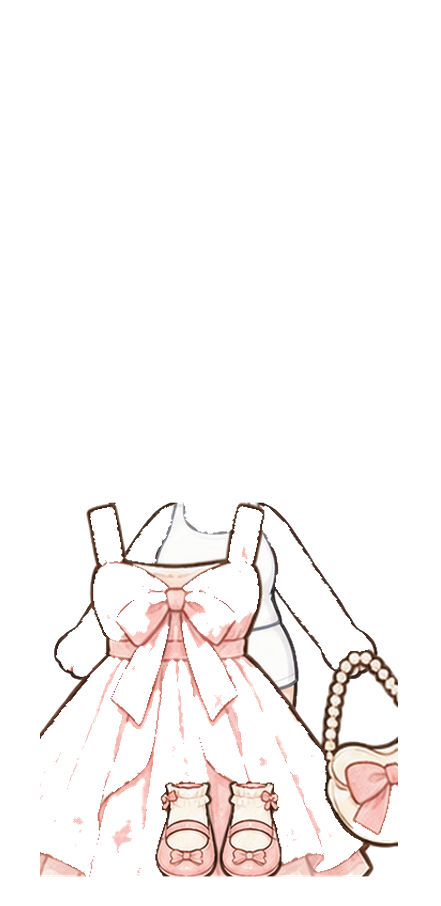
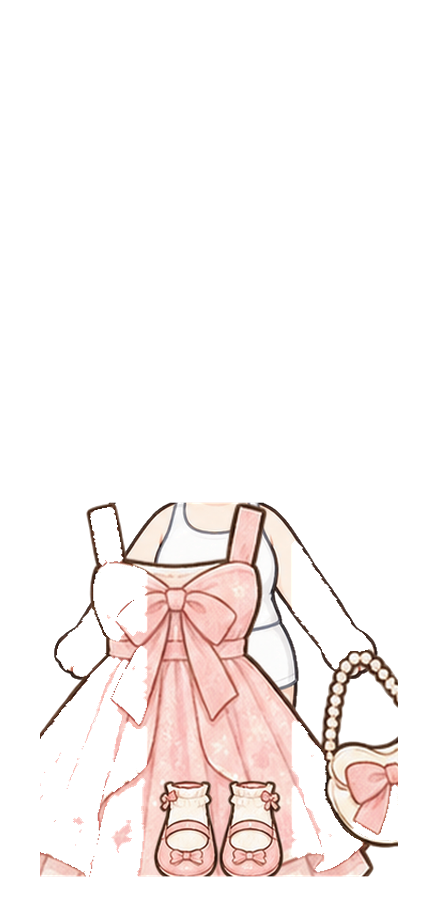
fix: 잠옷(09)·분홍 원피스(dress_05) 시스루 얼룩 제대로 고치고 잠옷 SKU 오배정 수정
두 원화(롱팬츠 잠옷·롱스커트 원피스) 모두 원래 중앙 열에 노출된 맨다리가 없다는
점을 이용해, remove_skin의 스킨 후보 검색에서 가운데 열을 통째로 제외하는 방식
(exclude_center)으로 옷감-피부 색 충돌 없이 정상 렌더링되게 고쳤다 — 이전에는
결함 목록(INVALID_KEYS)에 넣어 "의상 없음"으로만 되돌렸었는데, 이제 진짜 그림이
나온다.

겸사겸사 발견한 버그도 수정: 기본 지급 스타터 상품인 haenyeo_outfit_pajama SKU가
잠옷이 아니라 haenyeo_outfit_19(체크 치마+가방) 그림을 보여주고 있었다 — 실제
잠옷 그림(09번, 별무늬+토끼 슬리퍼)은 seed.sql에 없어 판매된 적 없는
haenyeo_outfit_pink_bear 키에만 연결돼 아무도 볼 수 없었다. 09번으로 바로잡았다.

Claude-Session: https://claude.ai/code/session_01XZf4WvQ5AwVrtd1cUDQi66

Changed region(s): [[0.2948, 0.5563, 0.678, 0.989]]

diff --git a/lib/domain/characterFullBody.ts b/lib/domain/characterFullBody.ts
@@ -644,17 +644,16 @@ export function haenyeoResolveHairIdx(idx: string | null): string | null {
 // 확인함). 재업로드 전까지 실제 존재하는 목록(AVAILABLE)에서도 별도로 걸러낸다.
 //
 // 2026-09-18: build_haenyeo_legacy_outfits.py로 옮긴 29종 중 outfit_09(잠옷)·dress_05
-// (분홍 원피스)는 remove_skin()이 옷감을 피부로 오인해 지워버린 결과물이었다 — 실측 확인:
-// 이 두 원화는 옷감 색(HSV hue 5~9°)이 이 캐릭터 시트 자체의 피부색(hue 9°대)과 채도·명도
-// 까지 겹쳐서 색만으로는 피부/옷감을 구분할 수 없다(다른 27종은 hue 차이가 15°+ 나서
-// 정상 분리됨). 억지로 자동 보정하면 다리에 분홍 얼룩이 남는 깨진 그림이 그대로 나가므로,
-// 재작업 전까지는 이 두 번호도 결함 목록에 같이 넣어 "의상 없음(이너웨어만)"으로 되돌린다
-// (사용자가 원본 그대로 놔둬도 깨진 옷보다는 낫다는 기존 정책과 동일 — 08/14/17 참고).
-export const HAENYEO_OUTFIT_INVALID_KEYS = new Set([
-  ...["08", "14", "17"].map((n) => `haenyeo_custom_outfit_${n}`),
-  "haenyeo_outfit_09",
-  "haenyeo_dress_05",
-]);
+// (분홍 원피스)는 처음엔 remove_skin()이 옷감을 피부로 오인해 지워버려 다리/몸통에 분홍
+// 얼룩이 남는 깨진 결과물이었다(옷감 HSV hue 5~9°가 이 두 원화 자체의 피부색과 채도·명도
+// 까지 겹쳐서 색만으로 구분 불가 — 다른 27종은 hue 차이가 15°+ 나서 정상 분리됨). 잠시
+// 이 목록에 넣어 "의상 없음(이너웨어만)"으로 되돌렸었지만, 두 원화 다 롱팬츠/롱스커트라
+// 애초에 중앙(가슴~다리)에 노출된 진짜 피부가 없다는 점을 이용해 remove_skin의 스킨 후보
+// 검색에서 중앙 열을 통째로 빼는 방식(exclude_center, 스크립트 참고)으로 정상 렌더링되게
+// 고쳤다 — 그래서 다시 뺐다(더 이상 INVALID 아님).
+export const HAENYEO_OUTFIT_INVALID_KEYS = new Set(
+  ["08", "14", "17"].map((n) => `haenyeo_custom_outfit_${n}`)
+);
 
 // 헤어를 쓰지 않을 때(민머리)는 원본 MASTER 몸을, 헤어를 쓸 때는 그 헤어 전용으로 미리 구운
 // 변형(민머리 정수리 외곽선이 두피 위 얇은 링만큼 지워진 버전 — build_haenyeo_master_canvas.py의

diff --git a/lib/domain/itemAppearance.ts b/lib/domain/itemAppearance.ts
@@ -17,7 +17,11 @@ export const ITEM_APPEARANCE_PATCH: Record<string, Partial<CharacterAppearance>>
   haenyeo_outfit_overalls: { outfit: "haenyeo_overalls", outfitAssetKey: "haenyeo_outfit_02" },
   haenyeo_outfit_dress: { outfit: "dress", outfitColor: "#f2b8c6", outfitAssetKey: "haenyeo_dress_02" },
   haenyeo_outfit_sweatshirt: { outfit: "sweatshirt", outfitColor: "#e9d9c3", outfitAssetKey: "haenyeo_outfit_06" },
-  haenyeo_outfit_pajama: { outfit: "pajama", outfitColor: "#cfe0ff", outfitAssetKey: "haenyeo_outfit_19" },
+  // 2026-09-18 버그 수정: haenyeo_outfit_19는 잠옷이 아니라 체크 치마+가방 그림이다(실측
+  // 확인) — 실제 잠옷(별무늬, 토끼 슬리퍼) 그림은 09번인데 그동안 판매되지 않는
+  // haenyeo_outfit_pink_bear(seed.sql에 없음) 키에만 연결돼 있어서 아무도 볼 수 없었다.
+  // "기본 지급" 스타터 상품인 이 SKU가 실제로는 전혀 다른 옷을 보여주고 있었으므로 바로잡는다.
+  haenyeo_outfit_pajama: { outfit: "pajama", outfitColor: "#cfe0ff", outfitAssetKey: "haenyeo_outfit_09" },
   // 해녀 헤어
   haenyeo_hair_wave: { hairStyle: "wave" },
   haenyeo_hair_pony: { hairStyle: "pony" },

diff --git a/scripts/asset-tools/build_haenyeo_legacy_outfits.py b/scripts/asset-tools/build_haenyeo_legacy_outfits.py
@@ -54,11 +54,24 @@ SKIN_MIN_COMPONENT_SIZE = 400
 SKIN_DILATE_ITER = 2
 
 
-def remove_skin(im: Image.Image):
+# 2026-09-18: outfit_09(잠옷)·dress_05(분홍 원피스)는 색만으로 피부/옷감을 구분할 수
+# 없었다(옷감 HSV hue 5~9도가 이 두 원화 자체의 피부색 hue와 채도·명도까지 겹침) — 결과물
+# 다리/몸통에 분홍 얼룩이 남는 진짜 깨진 그림이 나왔다(한때 HAENYEO_OUTFIT_INVALID_KEYS로
+# 되돌렸었음). 두 원화 다 롱팬츠/롱스커트라 원래 중앙 열(가슴~다리)에 노출된 진짜 피부가
+# 전혀 없다는 점(진짜 피부는 좌우로 뻗은 팔/손뿐)을 이용해, 가운데 열을 스킨 제거 후보에서
+# 통째로 빼는 것으로 색 충돌 없이 해결했다 — 반바지/짧은 치마처럼 중앙 하단에 실제 맨다리가
+# 있는 옷에는 이 예외를 쓰면 안 된다(진짜 다리 피부가 안 지워져 MASTER 다리와 겹쳐 보임).
+NO_CENTER_LEG_EXPOSURE_KEYS = {"haenyeo_outfit_09", "haenyeo_dress_05"}
+CENTER_EXCLUDE_X = (140, 280)
+
+
+def remove_skin(im: Image.Image, exclude_center: bool = False):
     arr = np.array(im.convert("RGBA")).astype(int)
     r, g, b, a = arr[:, :, 0], arr[:, :, 1], arr[:, :, 2], arr[:, :, 3]
     dist = np.sqrt((r - SKIN_REF[0]) ** 2 + (g - SKIN_REF[1]) ** 2 + (b - SKIN_REF[2]) ** 2)
     candidate = (a > 10) & (dist < SKIN_DIST_THRESHOLD)
+    if exclude_center:
+        candidate[:, CENTER_EXCLUDE_X[0]:CENTER_EXCLUDE_X[1]] = False
 
     labeled, num = ndimage.label(candidate)
     if num > 0:
@@ -89,7 +102,7 @@ def build_one(name: str):
         print(f"  {name}: [수동 확인] 예상 밖 캔버스 폭 {im.size} != {OLD_CANVAS_W} — 건너뜀")
         return None
 
-    no_skin, skin_px = remove_skin(im)
+    no_skin, skin_px = remove_skin(im, exclude_center=name in NO_CENTER_LEG_EXPOSURE_KEYS)
     alpha = np.array(no_skin)[:, :, 3]
     ys = np.where(alpha.max(axis=1) > 20)[0]
     if len(ys) == 0:
